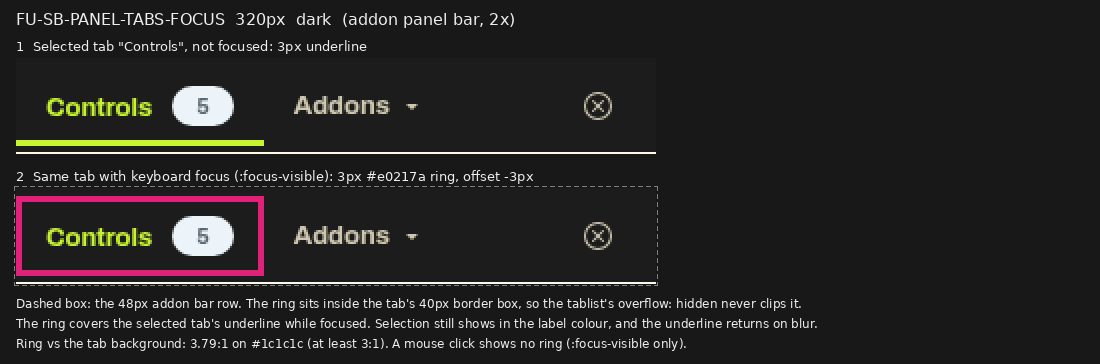
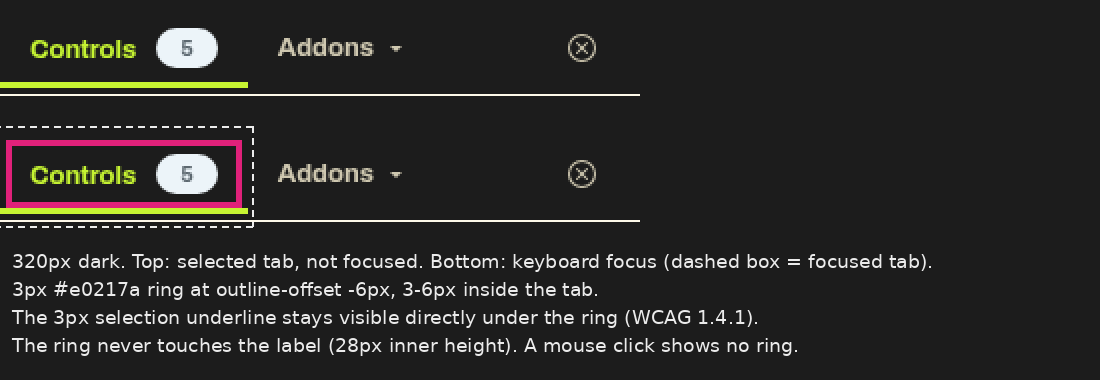
docs(storybook-brand): addon tab focus ring at offset -6px, underline stays visible (CA, 1.4.1)
Ring moves 3-6px inside the tab so the selected tab's 3px underline shows under it.
New gate rows: underline visible unfocused and focused, label glyphs inside the 28px
inner box with 0 ring pixels inside. 166/0 as served, --strip-focus 54/24, --strip 14 fail.

Author-bot: UX/UI Designer

diff --git a/docs/storybook-brand/mock/manager-head.html b/docs/storybook-brand/mock/manager-head.html
@@ -77,9 +77,11 @@
   }
   /* PANEL-TABS-FOCUS start (FU-SB-PANEL-TABS-FOCUS, CA/CTE 2026-11-11): Storybook 8.6.19 shows keyboard focus on an unselected addon tab
      only as its 3px underline, so the selected tab (underline already on) shows no change when focused (WCAG 2.4.7). Every addon tab gets the
-     #52 focus ring, 3px solid --eb-focus (#e0217a), on :focus-visible only (no ring on mouse click). Offset -3px puts the ring inside the tab's
-     border box, over its 3px top and bottom borders, so the tablist's overflow: hidden can't clip it at any width. All widths, not only below 600. */
-  .sb-bar [role="tablist"] .tabbutton:focus-visible { outline: 3px solid var(--eb-focus) !important; outline-offset: -3px !important; }
+     #52 focus ring, 3px solid --eb-focus (#e0217a), on :focus-visible only (no ring on mouse click). Offset -6px puts the ring inside the tab's
+     border box, just inside its 3px top and bottom borders, so the selected tab's 3px underline stays visible under the ring (selection never
+     rests on label colour alone, WCAG 1.4.1, CA 2026-11-11) and the tablist's overflow: hidden can't clip it at any width. Inner height 28px.
+     All widths, not only below 600. */
+  .sb-bar [role="tablist"] .tabbutton:focus-visible { outline: 3px solid var(--eb-focus) !important; outline-offset: -6px !important; }
   /* PANEL-TABS-FOCUS end */
   /* Reduced motion: Storybook 8.6's manager has no prefers-reduced-motion handling (mobile drawer slide, sidebar and control transitions). Neo's rule is motion off under reduce, so zero it here. */
   @media (prefers-reduced-motion: reduce) {

diff --git a/docs/storybook-brand/HANDOFF.md b/docs/storybook-brand/HANDOFF.md
@@ -224,19 +224,20 @@ Builder (BED): the three rules are in `mock/manager-head.html` between the `PANE
 
 | Rule | Why |
 |---|---|
-| `.sb-bar [role="tablist"] .tabbutton:focus-visible { outline: 3px solid var(--eb-focus) !important; outline-offset: -3px !important; }` | It's the #52 focus ring, the same 3px solid `--eb-focus` the brand link and the drawer header buttons use. `--eb-focus` resolves to **`#e0217a`** in both modes; the gate reads it from the built manager and fails on anything else. Offset `-3px` draws the ring over the tab's own 3px top and bottom borders, inside its 40px border box. The tablist is `overflow: hidden` with only 4px of block padding (section 4a), so an outside ring would be clipped, which is the same trap as #52. It's on every tab, so focus looks the same everywhere. `:focus-visible` only, so a mouse click shows no ring. `!important` beats Storybook's `outline: none`. Selectors use `.sb-bar`, `role` and Storybook's stable `.tabbutton` class, never `css-*` hashes. |
+| `.sb-bar [role="tablist"] .tabbutton:focus-visible { outline: 3px solid var(--eb-focus) !important; outline-offset: -6px !important; }` | It's the #52 focus ring, the same 3px solid `--eb-focus` the brand link and the drawer header buttons use. `--eb-focus` resolves to **`#e0217a`** in both modes; the gate reads it from the built manager and fails on anything else. Offset **`-6px`** (CA, 2026-11-11) draws the ring 3 to 6px inside the tab's 40px border box, just inside its 3px top and bottom borders, so the ring never covers the selected tab's 3px underline. Why not `-3px`: that put the ring over the underline, so a focused selected tab showed selection by label colour alone, which is a WCAG 1.4.1 risk. With `-6px` the underline sits directly under the ring in its own colour, and the ring's inner box is 28px tall, clear of the label. The tablist is `overflow: hidden` with only 4px of block padding (section 4a), so an outside ring would be clipped, which is the same trap as #52. It's on every tab, so focus looks the same everywhere. `:focus-visible` only, so a mouse click shows no ring. `!important` beats Storybook's `outline: none`. Selectors use `.sb-bar`, `role` and Storybook's stable `.tabbutton` class, never `css-*` hashes. |
 
 CA's four conditions, all verified by `panel-tabs.cjs` (focus rows, light and dark, at 320, 599 and 1280):
 1. **3:1 against the tab's own background.** Addon tabs have a transparent background in every state, hover included, so the gate walks up to the first opaque ancestor, which is the addon bar. Light is `#e0217a` on `#ffffff`, **4.50:1**. Dark is `#e0217a` on `#1c1c1c`, **3.79:1**. That holds for the unselected, selected and hovered tab.
-2. **Selected tab, ring on all four sides over the underline.** The pixel check needs ring colour (within 60 of `#e0217a`, summed over RGB) on at least 2 of the 4 pixel lines inside each edge of the tab's border box, corners excluded. A 3px ring meets that at any subpixel offset, because the tabs sit on fractional x such as 423.8px. Every side passes. While focused, the ring covers the selected tab's underline. Selection still shows in the label colour (`#1530d0` light, `#c6f432` dark), and the underline comes back on blur. So focused-and-selected, selected and focused are three distinct looks (shots).
-3. **Unclipped at 320, 599 and 1280, by pixels:** the same 4-side check on the selected, unselected and hovered tab. On the selected tab, focusing must also change at least half a ring's worth of pixels.
+2. **Selected tab, full ring plus the 3px underline.** The ring check needs ring colour (within 60 of `#e0217a`, summed over RGB) on at least 2 of pixel lines 2 to 5 inside each edge of the tab's border box, corners excluded (the ring covers lines 3 to 5). That holds at any subpixel offset, because the tabs sit on fractional x such as 423.8px. Measured: 3 lines on all four sides of the selected tab at every width and mode. The **underline row** reads the tab's computed `border-bottom-color` (`#1530d0` light, `#c6f432` dark) and needs at least 2 of the bottom 4 pixel lines to be at least 90% that colour, both unfocused and focused. Measured: 3 and 3 everywhere, so the underline stays visible directly under the ring. Focused-and-selected (ring plus underline), selected (underline) and focused unselected (ring plus Storybook's underline) stay distinct (shots).
+2a. **Ring clear of the label.** The **glyph row** takes a DOM Range over the tab's contents (the label text and the count badge) and needs its bounding box inside the ring's inner box, the border box inset 6px, with an inner height of exactly 28px. It also counts ring-colour pixels inside the border box inset 7px and needs 0. Measured gaps from the border box: selected 15px left and right, 10px top and bottom (the badge is the tallest glyph); unselected 15px and about 13px. Every row has 0 ring pixels inside.
+3. **Unclipped at 320, 599 and 1280, by pixels:** the same side check on the selected, unselected and hovered tab. On the selected tab, focusing must also change at least half a ring's worth of pixels.
 4. **Keyboard only:** after a keyboard focus the tab matches `:focus-visible`. **Negative check:** a mouse click on an unselected tab doesn't match `:focus-visible` and has 0 ring lines on every side.
 
-Results: as served, **148 pass, 0 fail**, exit 0 (`results/panel-tabs-focus.txt`). That's section 4a's 88 rows plus 60 focus rows. Negative control `--strip-focus` removes the `PANEL-TABS-FOCUS` block and runs only the focus rows: **24 fail**, exit 1 (`results/panel-tabs-strip-focus.txt`). At each width and mode, 4 fail: no ring on the selected, unselected and hovered tab, and the focused selected tab changes 0 px. The 36 passing rows are the `--eb-focus` read, `:focus-visible` matching, contrast and the click negative, none of which depend on the rule. Section 4a's `--strip` is unchanged: 14 fail, the same 14 lines (`results/panel-tabs-strip.txt`). `overrides.cjs` passes all checks ("all override checks pass").
+Results: as served, **166 pass, 0 fail**, exit 0 (`results/panel-tabs-focus.txt`, which also logs the measured ring lines, underline lines and glyph gaps per width and mode). That's section 4a's 88 rows plus 78 focus rows. Negative control `--strip-focus` removes the `PANEL-TABS-FOCUS` block and runs only the focus rows: **54 pass, 24 fail**, exit 1 (`results/panel-tabs-strip-focus.txt`). At each width and mode, 4 fail: no ring on the selected, unselected and hovered tab, and the focused selected tab changes 0 px. The 54 passing rows are the `--eb-focus` read, `:focus-visible` matching, contrast, the click negative and the underline row, none of which depend on the rule; the glyph rows are skipped there, because with no ring there's nothing to overlap. Section 4a's `--strip` is unchanged: 14 fail, the same 14 lines (`results/panel-tabs-strip.txt`). `overrides.cjs` passes all checks ("all override checks pass").
 
-Shots: `handoff/sb-panel-tabs-focus-{320,599,1280}-{light,dark}-annotated.png`, truecolor RGB. Each shows the addon bar at 2x: 1 the selected tab unfocused (underline), then 2 the same tab with keyboard focus (ring), inside a dashed box around the 48px row. 1280 is cropped to the left 760px.
+Shots: `handoff/sb-panel-tabs-focus-{320,599,1280}-{light,dark}-annotated.png`, truecolor RGB. Each shows the addon bar at 2x: 1 the selected tab unfocused (underline), then 2 the same tab with keyboard focus (ring plus underline), inside a dashed box around the tab. 1280 is cropped to the left 760px.
 
-Builder (BED): copy the rule between the `PANEL-TABS-FOCUS` comments into `.storybook/manager-head.html` along with the rest of `mock/manager-head.html` (it's in `mock/manager-head.html.diff`). Build with `mock/build.sh <node_modules> origin/main`, then run `node docs/storybook-brand/panel-tabs.cjs <url>` (exit 0, 148 pass), `--strip-focus` (exit 1, 24 fail) and `--strip` (exit 1, 14 fail). In the real build, Tab into the addon panel and focus the selected tab: it shows a pink 3px ring inside the tab. Clicking a tab with the mouse shows no ring.
+Builder (BED): copy the rule between the `PANEL-TABS-FOCUS` comments into `.storybook/manager-head.html` along with the rest of `mock/manager-head.html` (it's in `mock/manager-head.html.diff`). Build with `mock/build.sh <node_modules> origin/main`, then run `node docs/storybook-brand/panel-tabs.cjs <url>` (exit 0, 166 pass), `--strip-focus` (exit 1, 24 fail) and `--strip` (exit 1, 14 fail). In the real build, Tab into the addon panel and focus the selected tab: it shows a pink 3px ring inside the tab, with the blue (light) or lime (dark) underline still visible directly under it. Clicking a tab with the mouse shows no ring.
 
 ## 5. Motion
 
@@ -254,7 +255,7 @@ Storybook 8.6's manager has no `prefers-reduced-motion` handling (#45 didn't add
 | `sb-toolbar-hit-320-light.png`, `sb-toolbar-hit-320-dark.png`, `sb-toolbar-hit-599-light.png`, `sb-toolbar-hit-599-dark.png` | Section 4a, story view: dashed green boxes are each control's 44px hit area in the 48px top and bottom bars, on a 50px or wider pitch; 1 Zoom in with its focus ring; 2 the bars, 48px; 3 the scroll affordance at the right edge (the toolbar is at its scroll start) |
 | `sb-toolbar-hit-320-drawer-light.png`, `sb-toolbar-hit-599-drawer-light.png` | Section 4a, drawer open: 1 About Storybook and Close menu with 44x44 hit areas |
 | `sb-toolbar-hit-320-addons-light.png`, `sb-toolbar-hit-599-addons-light.png` | Section 4a, addon panel open: 1 the 48px addon bar with Close addon panel at 44x44 and the content starting under it; the tabs stay 40px visually; their 44px areas are in `sb-panel-tabs-*.png` (FU-SB-PANEL-TABS-44) |
-| `sb-panel-tabs-focus-320-light-annotated.png`, `sb-panel-tabs-focus-320-dark-annotated.png`, `sb-panel-tabs-focus-599-light-annotated.png`, `sb-panel-tabs-focus-599-dark-annotated.png`, `sb-panel-tabs-focus-1280-light-annotated.png`, `sb-panel-tabs-focus-1280-dark-annotated.png` | Section 4b, the addon bar at 2x: 1 the selected tab unfocused, with its 3px underline; 2 the same tab with keyboard focus, with the 3px `#e0217a` ring inset over the underline. Dashed box: the 48px row (the ring isn't clipped). |
+| `sb-panel-tabs-focus-320-light-annotated.png`, `sb-panel-tabs-focus-320-dark-annotated.png`, `sb-panel-tabs-focus-599-light-annotated.png`, `sb-panel-tabs-focus-599-dark-annotated.png`, `sb-panel-tabs-focus-1280-light-annotated.png`, `sb-panel-tabs-focus-1280-dark-annotated.png` | Section 4b, the addon bar at 2x: 1 the selected tab unfocused, with its 3px underline; 2 the same tab with keyboard focus, with the 3px `#e0217a` ring at offset -6px and the 3px underline still visible under it. Dashed box: the focused tab (the ring isn't clipped). |
 
 The annotation boxes (green for targets and hit areas, purple for color callouts) are an overlay added at capture time, not part of the design. The docs content inside the preview iframe isn't part of this card (Known issue 4).
 
